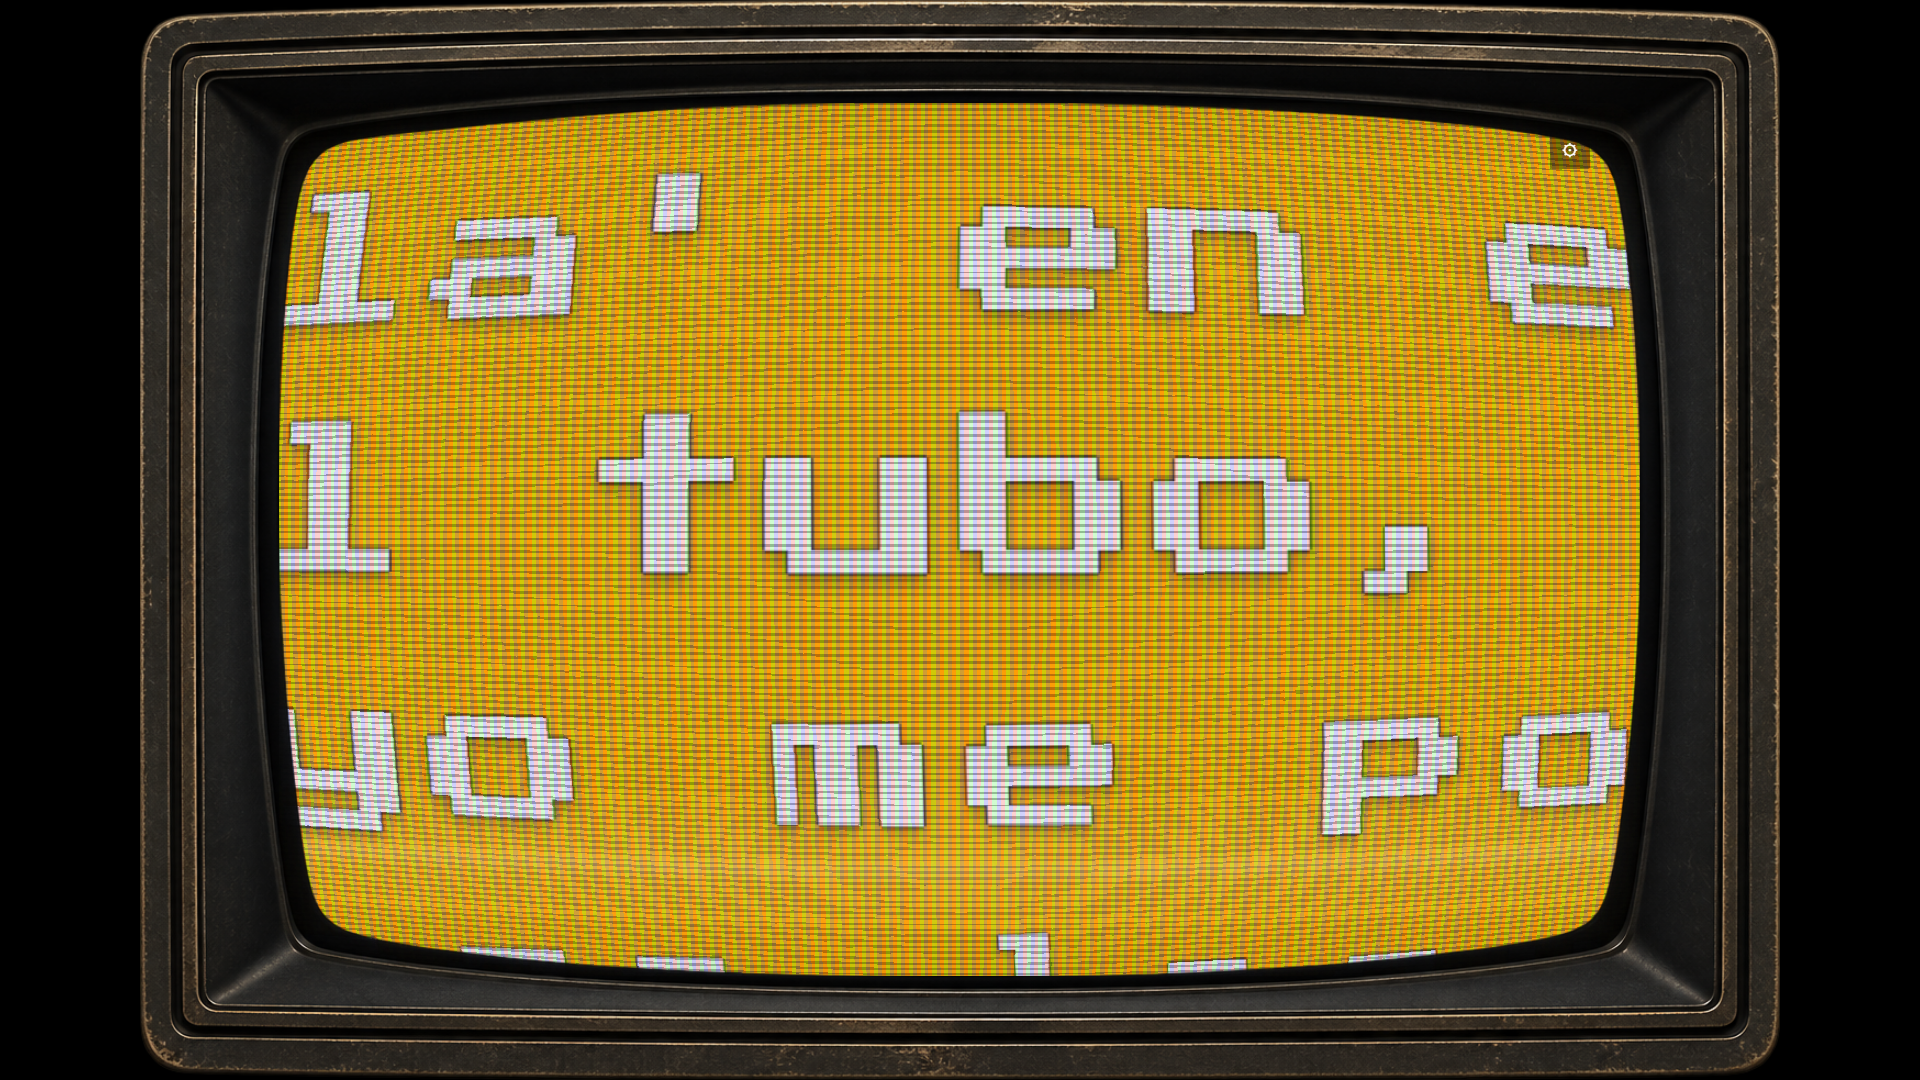
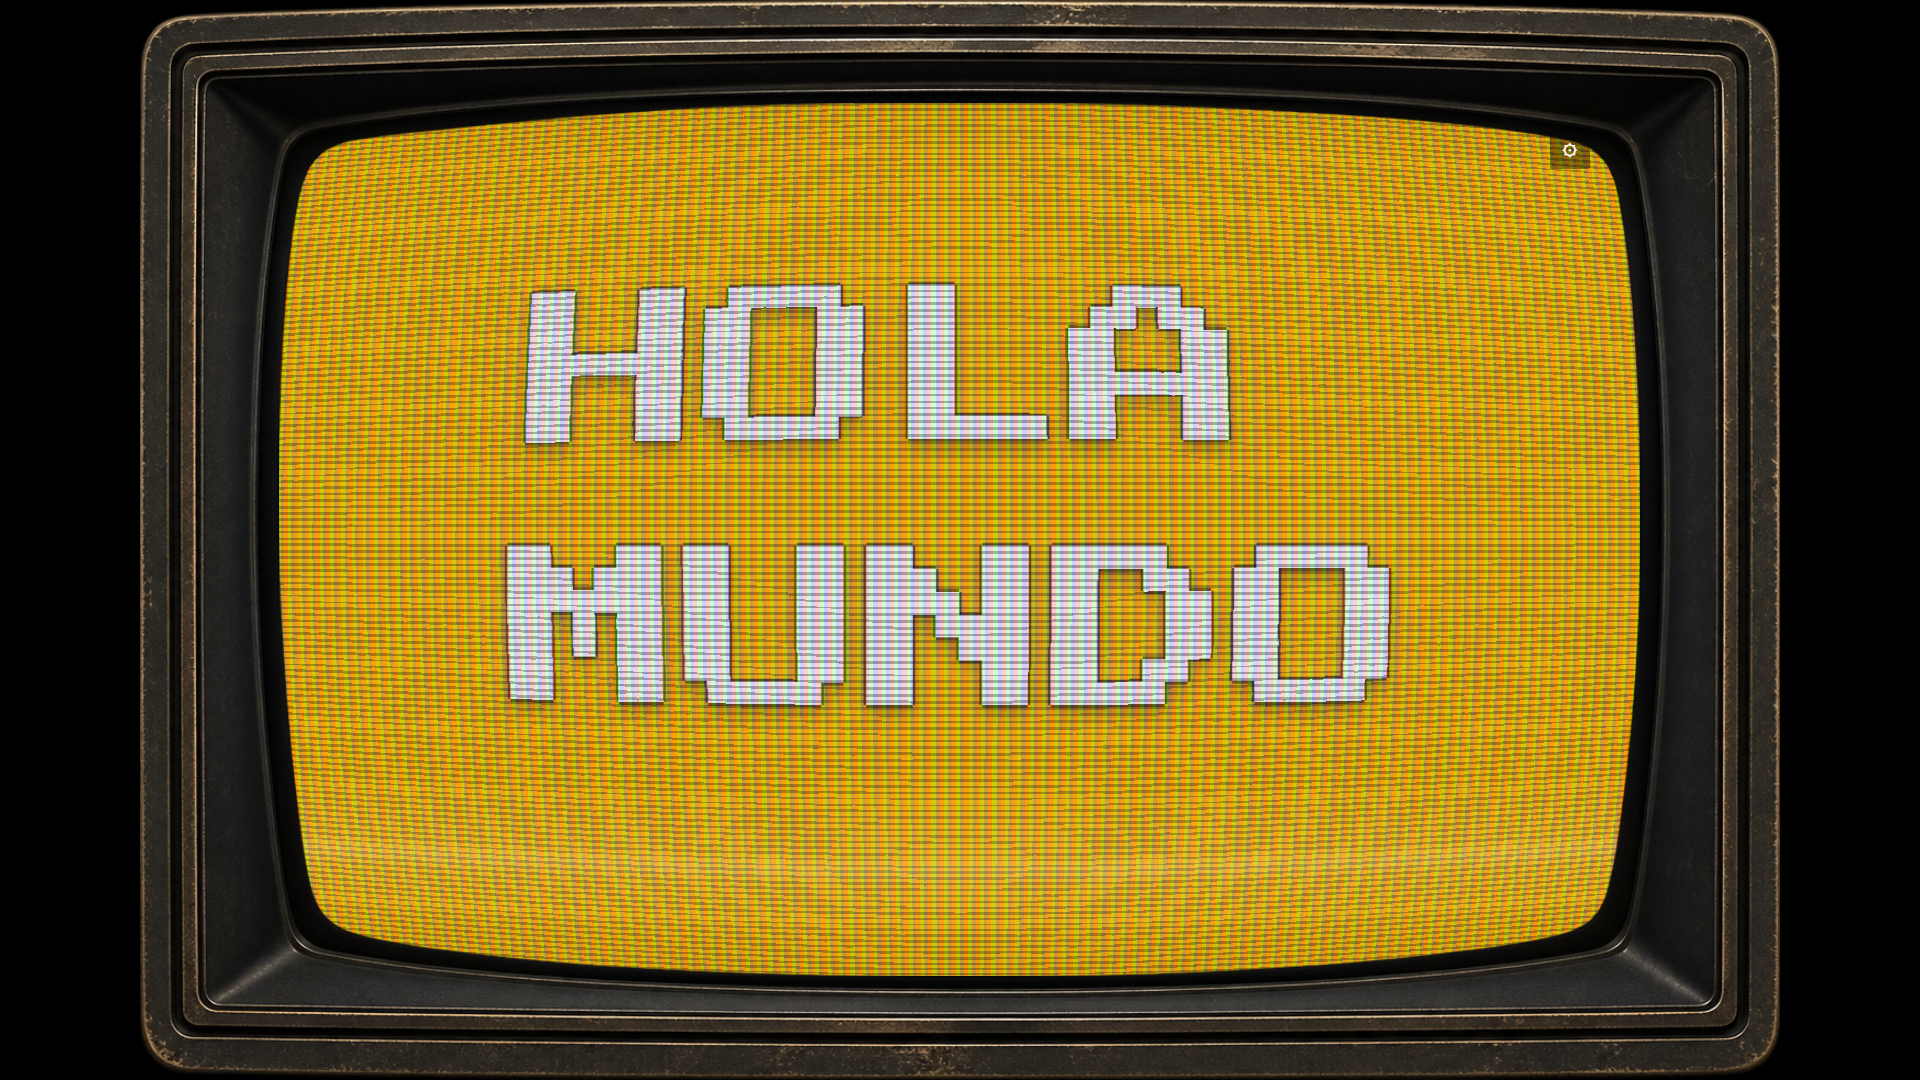
fix: ojo de pez SOLO filtro por píxel — elimina transform 3D por glifo (era el bug aAAa)

diff --git a/index.html b/index.html
@@ -171,9 +171,8 @@
   #queueLabel{font-size:9px;font-weight:700;letter-spacing:1.5px;opacity:.7;white-space:nowrap}
   #queueText{font-size:12px;font-weight:600;white-space:nowrap;overflow:hidden;text-overflow:ellipsis;opacity:.95}
 
-  /* ====== OJO DE PEZ: deformación ESTÁTICA de esfera ======
-     Se aplica POR CARÁCTER en JS (applyFisheye): los spans centrales son
-     grandes y los laterales pequeños/rotados. Aquí solo refuerzos globales. */
+  /* ====== OJO DE PEZ: SOLO filtro por píxel. La deformación la hace el
+       feDisplacementMap (lente SVG) sobre #lensTarget. El texto va SIEMPRE plano. */
   body.fisheye #lyrics{perspective:900px}
   body.fisheye #lyrics .line.back{
     transform:scale(.94);filter:blur(.4px);opacity:.36}
@@ -193,8 +192,7 @@
   .line{font-family:var(--lyric-font);font-size:var(--fs);line-height:1.45;max-width:88vw;
       overflow-wrap:normal;word-break:keep-all;hyphens:none;-webkit-hyphens:none;
       text-shadow:var(--lyric-shadow, 0 0 2.5vmin rgba(255,255,255,.14))}
-  /* spans del fisheye: aislar en GPU para que la máscara RGB no los "fase" */
-  .line.main span{display:inline-block}
+  /* spans del word-spacing (espacios): inline-block para que margin funcione */
   /* SUBTÍTULO: más pequeño y opaco (backs/paréntesis) */
   .line.back{font-size:calc(var(--fs) * .5);opacity:.45;line-height:1.2;
     text-shadow:none;letter-spacing:0}
@@ -1257,74 +1255,25 @@ function applyLens() {
   }
 }
 
+/* ---------- OJO DE PEZ: solo filtro por píxel (lente SVG). El ojo de pez
+   por glifo fue DESCONTINUADO: deformar cada letra con transform 3D hace que
+   los caracteres centrales crezcan y los laterales se encojan/roten, dando
+   el efecto "aAAa" que rompía la legibilidad. Ahora la deformación la hace
+   exclusivamente el feDisplacementMap (filtro por píxel) sobre #lensTarget,
+   y el texto va SIEMPRE plano. Esta función solo respeta wordSpacing. */
 function applyFisheye(el, text) {
-  // SIN fisheye: texto plano con espaciado entre palabras (GPU-only, sin spans por carácter)
-  if (!cfg.fish || eggActive) {
-    el.textContent = "";
-    text.split(/(\s+)/).forEach(part => {
-      if (/^\s+$/.test(part)) {
-        const sp = document.createElement("span");
-        sp.textContent = "\u00A0\u00A0";
-        const ws = (cfg.wordSpacing == null ? 1 : +cfg.wordSpacing);
-        sp.style.marginLeft = (0.1 * ws).toFixed(3) + "em";
-        sp.style.marginRight = (0.1 * ws).toFixed(3) + "em";
-        sp.style.display = "inline-block";
-        el.appendChild(sp);
-      } else if (part) {
-        el.appendChild(document.createTextNode(part));
-      }
-    });
-    return;
-  }
-  // fisheye activo: cada carácter es un inline-block con su transform 3D.
   el.textContent = "";
-  const frag = document.createDocumentFragment();
-  const chars = [...text];
-  const n = chars.length;
-  const mirror = document.createElement("div");
-  mirror.style.cssText = `position:fixed;top:-9999px;left:-9999px;visibility:hidden;
-    font-size:${cfg.fs}vw;font-family:${FONTS[cfg.font]||FONTS.arcade};white-space:nowrap`;
-  document.body.appendChild(mirror);
-  mirror.textContent = text;
-  const totalW = mirror.scrollWidth || 1;
-  document.body.removeChild(mirror);
-  const widths = chars.map(c => (c === " " ? 0.6 : 1));
-  const totalUnits = widths.reduce((a,b) => a + b, 0) || 1;
-  let acc = 0;
-  for (let i = 0; i < n; i++) {
-    const ch = chars[i];
-    if (ch === " ") {
-      const ws = (cfg.wordSpacing == null ? 1 : +cfg.wordSpacing);
+  text.split(/(\s+)/).forEach(part => {
+    if (/^\s+$/.test(part)) {
       const sp = document.createElement("span");
       sp.textContent = "\u00A0\u00A0";
-      sp.style.cssText = `display:inline-block;margin-left:${(0.1*ws).toFixed(3)}em;margin-right:${(0.1*ws).toFixed(3)}em;width:${(0.6*ws).toFixed(3)}em`;
-      frag.appendChild(sp);
-      acc += widths[i];
-      continue;
-    }
-    const span = document.createElement("span");
-    span.textContent = ch;
-    const centerPx = (acc + widths[i] / 2) / totalUnits * totalW;
-    acc += widths[i];
-    const t = Math.max(-1, Math.min(1, (centerPx - totalW / 2) / (totalW / 2)));
-    const sq = 1 - t * t;
-    const scaleX = 0.55 + 0.45 * sq;
-    const scaleY = 0.62 + 0.38 * sq;
-    const lift = -t * t * 8;
-    const rotY = t * -10;
-    const skew = t * 4;
-    span.style.cssText = `display:inline-block;text-align:center;will-change:transform;
-      transform:perspective(300px) rotateY(${rotY.toFixed(1)}deg) skewX(${skew.toFixed(1)}deg)
-      scale(${scaleX.toFixed(3)},${scaleY.toFixed(3)}) translateY(${lift.toFixed(1)}%)`;
-    if (i + 1 < n && chars[i + 1] !== " ") {
-      span.style.marginRight = "0.05em";
-    } else if (i + 1 >= n || chars[i + 1] === " ") {
       const ws = (cfg.wordSpacing == null ? 1 : +cfg.wordSpacing);
-      span.style.marginRight = (0.18 * ws).toFixed(3) + "em";
+      sp.style.cssText = `display:inline-block;margin-left:${(0.1*ws).toFixed(3)}em;margin-right:${(0.1*ws).toFixed(3)}em;width:${(0.6*ws).toFixed(3)}em`;
+      el.appendChild(sp);
+    } else if (part) {
+      el.appendChild(document.createTextNode(part));
     }
-    frag.appendChild(span);
-  }
-  el.appendChild(frag);
+  });
 }
 
 
@@ -1341,9 +1290,9 @@ function setLyric(text, back) {
   document.documentElement.style.setProperty("--fs", cfg.fs + "vw");
   $("lCur").style.fontSize = fsPx;
   if (!eggActive) { $("lCur").style.color = "" }   // restaurar contraste dinámico
-  // con la LENTE activa el texto va PLANO: la deformación la hace el filtro por píxel
+  // la deformación del ojo de pez la hace el filtro por píxel (lente SVG).
+  // El texto va SIEMPRE plano, garantizado.
   applyLens();
-  // text-align:center heredado del #lyrics garantiza centrado perfecto
   $("lCur").style.textAlign = "center";
   $("lBack").style.textAlign = "center";
   applyFisheye($("lCur"), text);
